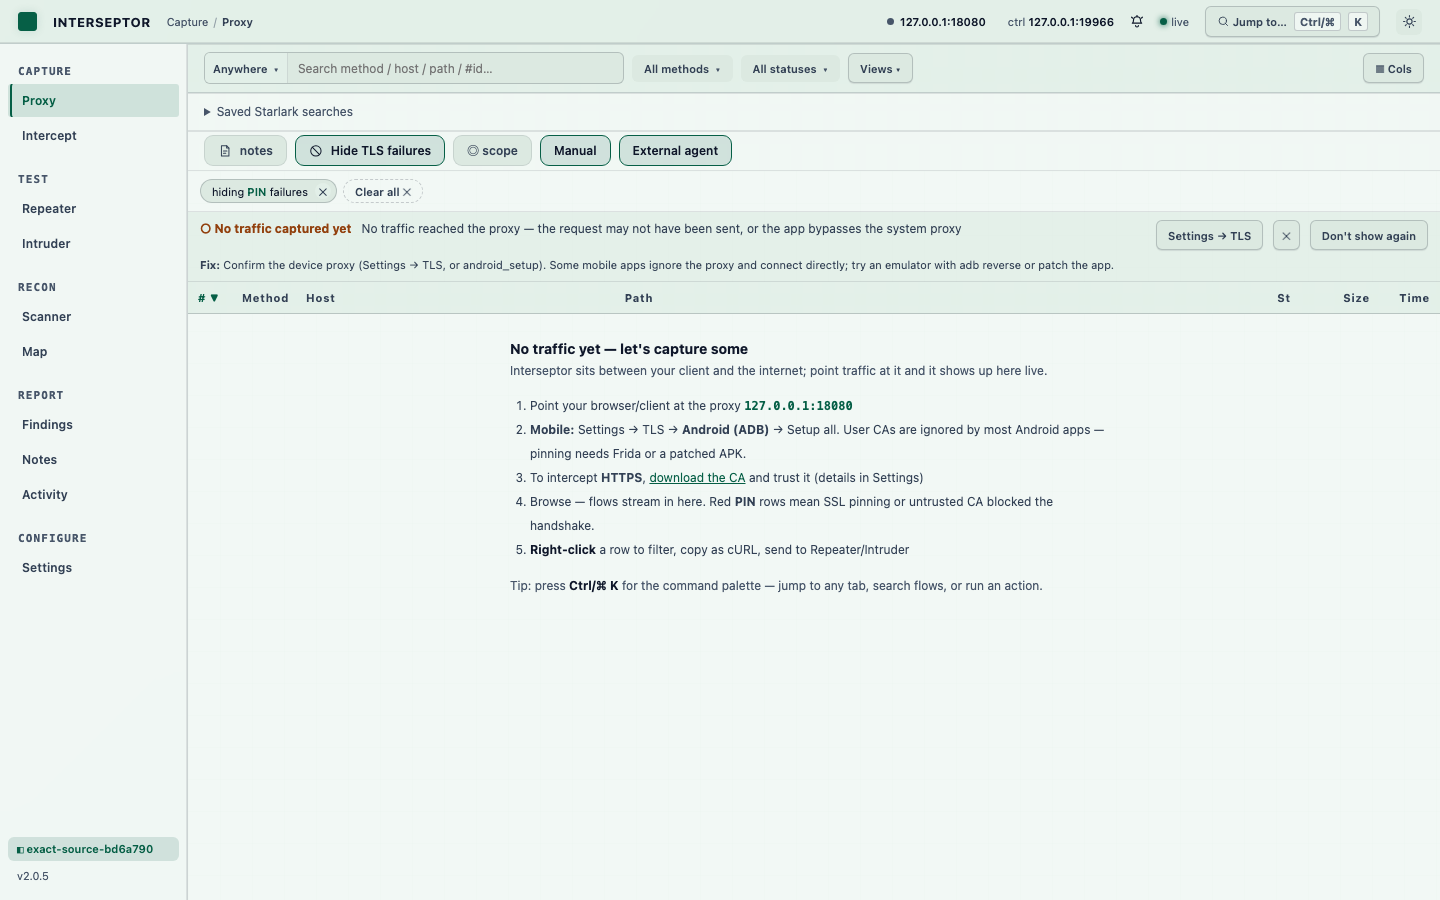
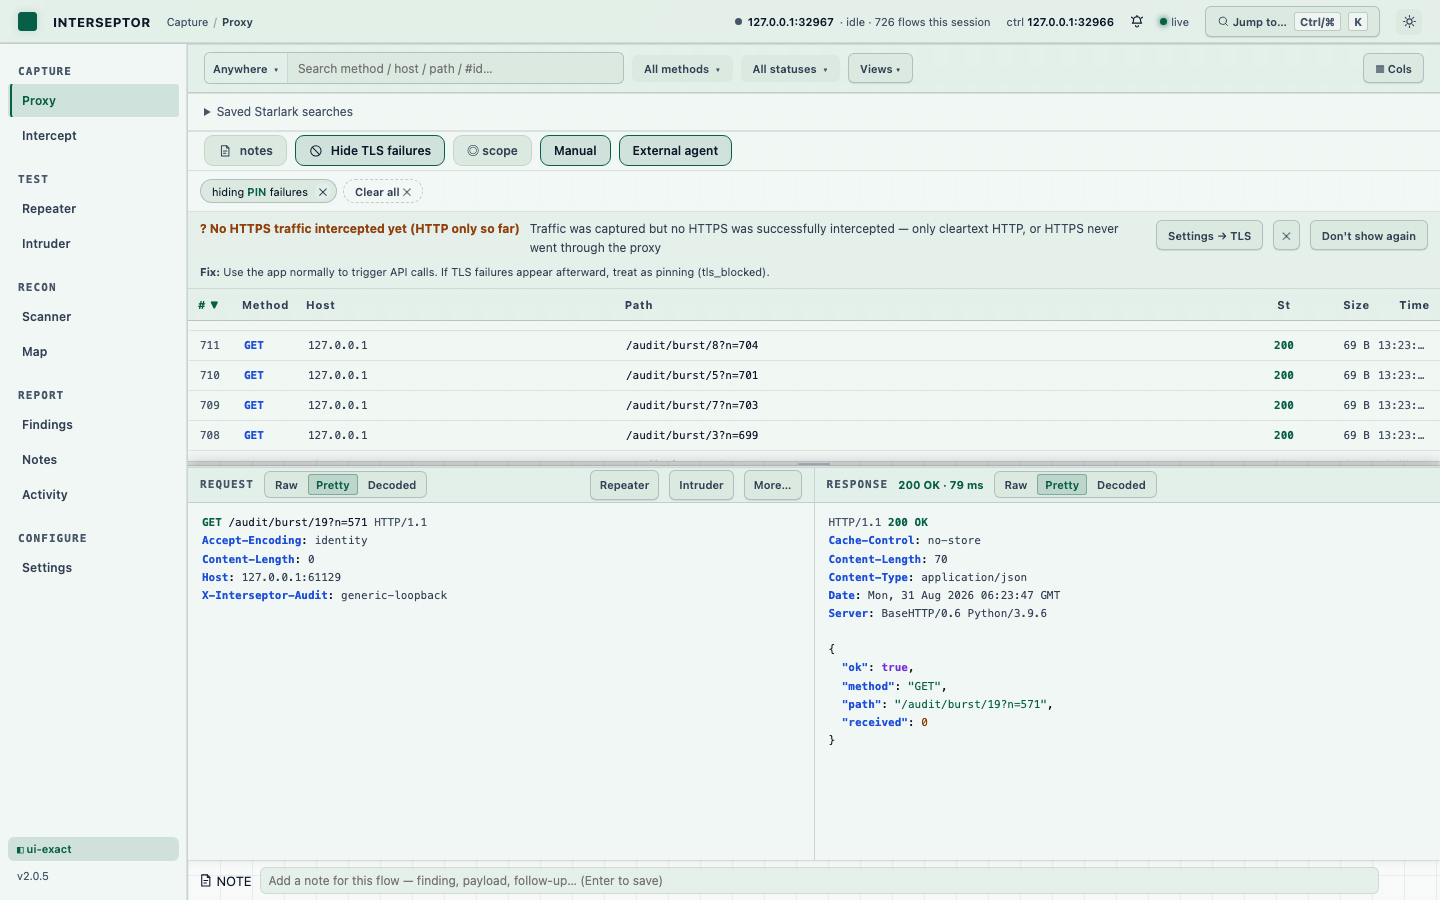
docs(ui): bind exhaustive audit evidence

diff --git a/docs/ui-audit/verification.md b/docs/ui-audit/verification.md
@@ -2,19 +2,19 @@
 
 ## Revision and environment
 
-- Final application source: `bd6a790c5984b08ed95b104b46adcccb16fbe70a`
-- Full-audit baseline source: `42461e18fd13e72047cb81d99716fa6f18e8241a`
-- Launch: fresh `go run ./cmd/interseptor` build of the final source
+- Final application source: `0db243da77f26a9fb4a4a2598af622d17d4faa4d`
+- Original audit baseline source: `42461e18fd13e72047cb81d99716fa6f18e8241a`
+- Launch: fresh `go run ./cmd/interseptor` build of the exact final source
 - Browser: Playwright 1.60.0, Chromium 148.0.7778.96
 - Data: isolated projects with generic `example.com`, `localhost`, and loopback fixtures only
 - Required viewports: 1440 × 900, 1024 × 768, and 390 × 844
 - Reduced motion: a separate browser context with `prefers-reduced-motion: reduce`
 
-The exhaustive feature matrix and performance profile were completed at the baseline source. The
-final source changes only Settings mutation ownership, so the required viewport, reduced-motion,
-Repeater persistence, and affected Settings/Setup ownership journeys were repeated after a fresh
-final-source build. The screenshots are committed separately so this document can name the exact
-application revision they validate.
+The complete 17-case matrix and three-run performance profile were executed against the exact final
+source with `scripts/ui_browser_audit.py --full --burst 240 --perf-runs 3`. Two preceding isolated
+passes and one independent-agent pass also completed the same matrix without a failure. The
+screenshots are committed separately so this document can name the exact application revision they
+validate.
 
 ## Audit outcome
 
@@ -25,8 +25,8 @@ and feedback rather than changing that identity.
 
 The highest-value defects were async ownership gaps: delayed responses could repaint a newer
 selection, hide a real failure behind a plausible empty state, or overwrite edits made while a save
-was pending. The final fixes bind each acknowledgement to the object, generation, tab, or field that
-created it. In particular:
+was pending. The final fixes bind each acknowledgement to the object, generation, tab, editor, or
+field that created it. In particular:
 
 - History reconciles selection across successful and failed server-side filters and never leaves a
   stale Inspector spinner.
@@ -37,67 +37,83 @@ created it. In particular:
 - Settings acknowledgements update only fields that the operator has not changed since submission.
 - Findings, Intruder, Scanner, Notes, Map, Session, and project hydration use latest-request or
   entity-scoped ownership instead of repainting newer work.
+- Share no longer probes an unconfigured remote Vault, a completed Vault save cannot clear a newer
+  token draft, and the flow-search Test action validates its API-required name locally.
+- Captured and replayed WebSocket frames retain their distinct endpoint contracts, and selected
+  records expose consistent current-state semantics to assistive technology.
 
 ## Feature and dependency matrix
 
 | Surface | Independent checks | Cross-feature checks |
 | --- | --- | --- |
-| Proxy / History | filtering, selection, Inspector loading/error, pagination retry, live virtualization, keyboard row/context actions | send/search actions wait for project identity; Map search receives the selected evidence; selected flows remain consistent during filters and SSE |
+| Proxy / History | filtering, selection, Inspector loading/error, pagination retry, saved-search validation, live virtualization, keyboard row/context actions | send/search actions wait for project identity; Map search receives the selected evidence; selected flows remain consistent during filters and SSE |
 | Intercept | request/response queues, filters, Match & Replace, pending/acknowledged Forward and Drop, typing-safe shortcuts | queue refreshes cannot overwrite filter edits; operation results cannot mutate a newer selected queue item |
 | Repeater | tab lifecycle, Send states, response ownership, decode races, persistence and cleanup | send-to-Repeater keeps the operator's edited tab intact; History remains tab-owned across request changes and project reload |
 | Intruder | duplicate-start lock, history selection, live polling errors, result filters | returning from historical evidence to live evidence preserves the configured target; finding creation uses the displayed run |
 | Scanner | real pending/success/error state, latest issues response, readable narrow layout | created findings and flow evidence remain tied to the scan result that initiated them |
 | Findings | creation focus, save ordering, rollback, picker query ownership, evidence lightbox | flow picker and Intruder-to-Finding actions retain the active finding/run; Activity and evidence focus are restored |
 | Map | tree hydration, table/graph/search replacement, node keyboard selection, Fit/focus transform | Proxy body search waits for project hydration; host focus preserves the server-side search and refreshes parameters |
-| Settings | search/navigation, dirty-field restoration, upstream proxy ownership, Session/project failures, device guidance | live refresh never overwrites pending edits; project failure blocks dependent UI loads instead of guessing a project |
+| Settings | all eight sections, search/navigation, dirty-field restoration, upstream proxy ownership, Session/project failures, device refresh, API keys, allowlist, REST/MCP, Share/Vault | live refresh never overwrites pending edits; project failure blocks dependent UI loads instead of guessing a project; delayed Vault acknowledgement preserves the newest token draft |
 | Notes / Activity | latest load/save ownership, outcome labels, filter/focus retention | panel activation and live updates preserve focused objects and their accessible outcomes |
+| Auxiliary tools | Checks/Codecs modals, Decoder, project modal, OOB availability, Authz retargeting, WebSocket capture/replay contracts | close paths restore focus; explicit context-menu targets and later A→B→A selection changes retain the intended flow |
 
 ### Repeater history contract
 
 The exact-target browser recheck sent a request from one Repeater tab, then changed its method, URL,
-headers, and body. History remained attached to the tab after every edit and a page reload; the
-edited request also survived the reload. The durable IndexedDB row count stayed at one until the
-tab closed, then reached zero. The larger 105-request render and close-vs-send race remain covered
-by the focused Repeater regression tests.
+headers, and body. History remained attached to the tab after every edit, top-level navigation, and
+a page reload; the edited request also survived the reload. A second task tab received a distinct
+history. Closing the first tab removed only its IndexedDB rows, and closing the second removed its
+remaining rows. The larger 105-request render and close-vs-send race remain covered by focused
+Repeater regression tests.
 
 ### Settings ownership contract
 
-The final-source browser recheck injected delayed Settings reads and acknowledgements. A stale read
-could not repaint a newer certificate-policy choice; rapid strict/compatible changes issued one
-write at a time and settled on the latest intent. A live refresh preserved an unfocused dirty TLS
-passthrough draft, and a delayed save acknowledgement could not overwrite edits made after submit.
-The Setup wizard and Settings panel also shared one mocked system-proxy mutation while it was in
-flight and converged on the acknowledged state without a duplicate write or operating-system
-change.
+The exact-source browser pass opened every Settings section, refreshed both device panels, exercised
+the project modal and reversible API-key/allowlist mutations, and verified that an unconfigured
+Vault made no remote request. It held a Vault configuration PUT, typed a newer token draft, then
+released the acknowledgement; the newer draft remained. Focused Go UI contracts additionally
+inject delayed Settings reads and acknowledgements, rapid strict/compatible changes, live refresh
+over dirty TLS drafts, and shared Setup/Settings system-proxy mutations without making an operating-
+system change.
 
 ## Browser and accessibility checks
 
 - All ten top-level tabs committed `aria-selected`, active-panel state, and focus together.
-- 1440 × 900, 1024 × 768, and 390 × 844 had `0 px` document overflow.
+- Every primary panel and its key control remained reachable at 390 × 844; 1440 × 900,
+  1024 × 768, and 390 × 844 had `0 px` document overflow.
 - Reduced motion produced `0` active animations, `0s` panel/row transitions, and automatic rather
-  than smooth scrolling; selection, text, color, border, and status still communicated the result.
+  than smooth scrolling. The shared JavaScript helper also returned without creating an Animation;
+  selection, text, color, border, and status still communicated the result.
 - Map retained one roving graph tab stop, keyboard movement, `aria-selected`, and a persistent
-  selection halo.
+  selection halo; Fit plus wheel/drag changed the graph transform without a continuous simulation.
 - Activity kept focus on the same record during live insertion and announced success/error outcome
   text. The evidence lightbox opened from the keyboard and restored focus on Escape.
-- Normal sweeps had no unexpected console errors, page errors, or external hosts. Fault-injection
-  runs intentionally aborted requests or returned `500`/`503`; each produced a persistent Retry or
-  rollback state and those expected network-console messages were classified separately.
+- Real Scanner and Intruder runs reached pending and success states. Intercept Forward and response
+  Drop kept their queue items until deliberately delayed server acknowledgements completed. Authz
+  retained its explicit context target and followed later A→B→A selection changes exactly.
+- The normal sweep had no unexpected console, page, or HTTP errors and no external browser request.
+  The fault context intentionally returned three `503` responses for Activity/History and produced
+  persistent Retry states; those expected network-console messages were classified separately.
 
 ## Performance findings
 
-The full profile was captured after a fresh launch of baseline source `42461e1`; the final-source
-delta is confined to Settings mutation ownership. The focused final-source Settings and Repeater
-recheck produced no browser long tasks or stuck busy controls.
+The full profile was captured after a fresh launch of exact source `0db243d`. Performance sampling
+used Chrome DevTools Protocol metrics, the Long Tasks API, three independent 240-request capture
+runs, bounded-DOM assertions, and real Map Fit/wheel/drag input. No browser long task or stuck busy
+control was observed.
 
 | Scenario | Result |
 | --- | --- |
-| 240-request live History burst | `505.2 ms` network wall time, 101 observed rows at 1440 × 900, 3,087 DOM nodes, 0 long tasks, no visible stuck busy state |
-| Map hydration after the burst | `970.1 ms` from tab activation to the first rendered host |
-| Whole 240-request profile (CDP delta) | task `0.115 s`, script `0.057 s`, layout `0.015 s`, heap `-0.6 MB` after collection |
+| Three 240-request live History bursts | network p95 `164.2 ms`; 82 rendered rows at 1440 × 900; 4,825 DOM nodes; long-task p95 `0 ms` |
+| Main-panel transitions | CSS duration `180 ms`; measured completion p95 `196.8 ms` across nine panel changes |
+| Delayed Intercept acknowledgement | `319.3 ms` verification window, including the deliberate route hold; row remained present until acknowledgement |
+| Map after the burst | first host `75.9 ms`; Fit plus wheel/drag verification window `443.8 ms`; graph transform changed |
+| Whole three-burst profile (CDP delta) | task `0.407 s`, script `0.109 s`, layout `0.044 s` |
+| Map interaction (CDP delta) | task `0.046 s`, script `0.0017 s`, layout `0.0005 s` |
 
 The target recheck treats only a visible busy surface as busy. The virtualized table remained
-interactive after the burst and no visible busy surface remained.
+interactive after all 720 requests, preserved its scroll state through Map navigation, and left no
+visible busy surface behind.
 
 ## Competitive review
 

diff --git a/docs/ui-audit/README.md b/docs/ui-audit/README.md
@@ -1,13 +1,14 @@
 # UI audit screenshots
 
 The **After** screenshots validate UI source revision
-[`bd6a790`](https://github.com/Veyal/interseptor/commit/bd6a790c5984b08ed95b104b46adcccb16fbe70a).
+[`0db243d`](https://github.com/Veyal/interseptor/commit/0db243da77f26a9fb4a4a2598af622d17d4faa4d).
 They were captured from a fresh build of that checkout in the isolated
-`exact-source-bd6a790` project on 2026-08-31. The evidence change contains only documentation,
-screenshots, and the changelog, so `bd6a790` remains the exact application source under test.
+`ui-exact` project on 2026-08-31. The evidence change contains only documentation,
+screenshots, and the changelog, so `0db243d` remains the exact application source under test.
 
-The retained **Before** screenshots are from repository baseline `ec1b79e`. Both sets use empty,
-generic projects; they contain no captured request data or target information.
+The retained **Before** screenshots are from repository baseline `ec1b79e`. The After set uses only
+the audit's local loopback fixture and generic project records; neither set contains real request
+data, personal data, or target information.
 
 | Viewport | Surface | Before | After |
 | --- | --- | --- | --- |
@@ -21,17 +22,18 @@ horizontal, scrollable dense-table surface while its controls wrap inside the vi
 
 ## Verification summary
 
-The final Playwright recheck ran Chromium 148 against source `bd6a790`. The 1440 × 900 Proxy,
-1024 × 768 Map, and 390 × 844 Scanner views each had zero document-level horizontal overflow.
+The final Playwright recheck ran Chromium 148 against source `0db243d`. All 17 independent and
+cross-feature cases passed at 1440 × 900, 1024 × 768, and 390 × 844 without document overflow.
 Reduced motion left zero active animations and zero-duration animations/transitions. Repeater
-history stayed tab-owned after method, URL, header, and body edits and a reload, then its IndexedDB
-row was removed when the tab closed. Delayed Settings refreshes and acknowledgements preserved the
-latest toggle intent and newer TLS draft, while Setup shared the Settings-owned system-proxy
-mutation. No unexpected console or page errors were reported.
+history stayed tab-owned after every request edit, navigation, reload, a second task tab, and both
+tab closures. The audit also exercised real Scanner and Intruder runs, delayed Intercept
+acknowledgements, Authz retargeting, reversible API-key/allowlist actions, unconfigured Vault
+behavior, and every Settings section. No unexpected console, page, HTTP, or external-request errors
+were reported.
 
-Chrome DevTools Protocol metrics covered a fresh 240-request proxy burst and the resulting Map
-hydration. The 1440 × 900 History window stayed bounded at 101 rendered rows and about 3.1k DOM
-nodes, with no long tasks or visible stuck busy state.
+Chrome DevTools Protocol metrics covered three fresh 240-request proxy bursts and the resulting Map
+hydration and gestures. The 1440 × 900 History window stayed bounded at 82 rendered rows and 4,825
+DOM nodes, with no long tasks or visible stuck busy state.
 
 See [`verification.md`](verification.md) for the revision, feature matrix, measurements, failure
 injections, competitive review, and intentionally deferred ideas.

diff --git a/CHANGELOG.md b/CHANGELOG.md
@@ -17,7 +17,7 @@ and this project adheres to [Semantic Versioning](https://semver.org/).
 ### Fixed
 - **Exhaustive UI action ownership.** Prevent delayed cross-tool loads, Authz retargets, Share refreshes, Intruder file pickers, task-tab focus callbacks, device/setup actions, saved views, reference data, and auxiliary API/Settings mutations from overwriting a newer tab, selection, editor, or action; avoid probing an unconfigured remote Vault, preserve newer Vault token drafts, validate API-required saved-search names before testing, clear prior Intruder evidence before a new run, and expose current selections consistently to assistive technology.
 - **Serialized Settings ownership.** Coalesce rapid security-toggle changes through per-setting mutation lanes; prevent stale refreshes from repainting acknowledged listener, upstream, TLS-list, and device-endpoint saves; serialize cross-surface TLS additions; and keep Setup and Settings bound to one authoritative system-proxy mutation state with explicit retry feedback.
-- **Exact-revision UI evidence.** Recaptured the required desktop, tablet, and mobile screenshots and repeated reduced-motion, Repeater reload/IndexedDB cleanup, and final Settings ownership checks against application source `bd6a790`.
+- **Exact-revision UI evidence.** Recaptured the required desktop, tablet, and mobile screenshots and repeated the full 17-case browser/CDP matrix, reduced-motion checks, tab-owned Repeater reload/IndexedDB cleanup, Settings/API workflows, and three 240-request performance runs against application source `0db243d`.
 - **UI audit contract coverage.** Kept the comprehensive Inspector reconciliation test aligned with its filter-generation ownership input and locked the distinct captured-frame versus replay-frame WebSocket DTO mappings to their real endpoints.
 - **UI regression coverage.** Updated the origin TLS settings journey test to cover the latest-request guard before failure feedback is rendered.
 - **macOS release integrity.** Stamp app binaries with the bundle version, verify the bundled CLI reports the exact tag, and publish validated checksums for the app ZIP and DMG.
